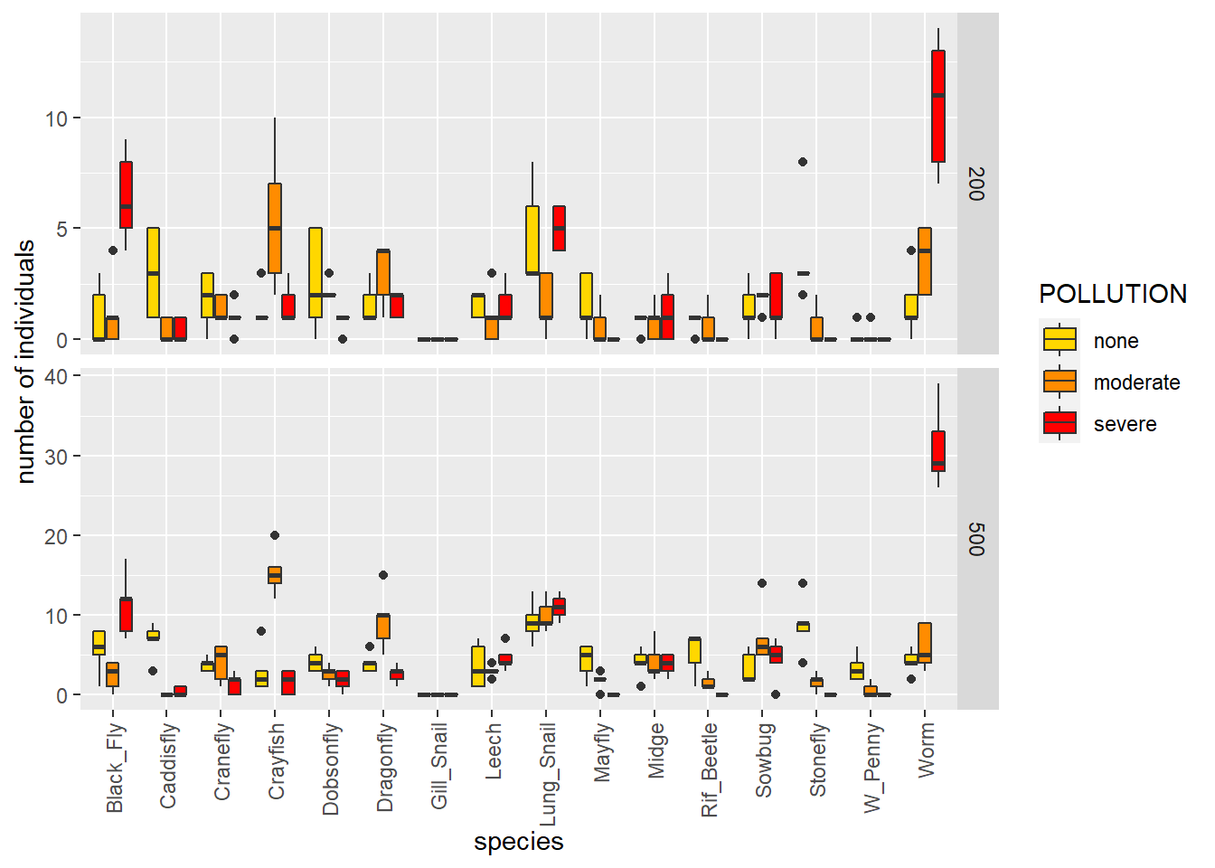
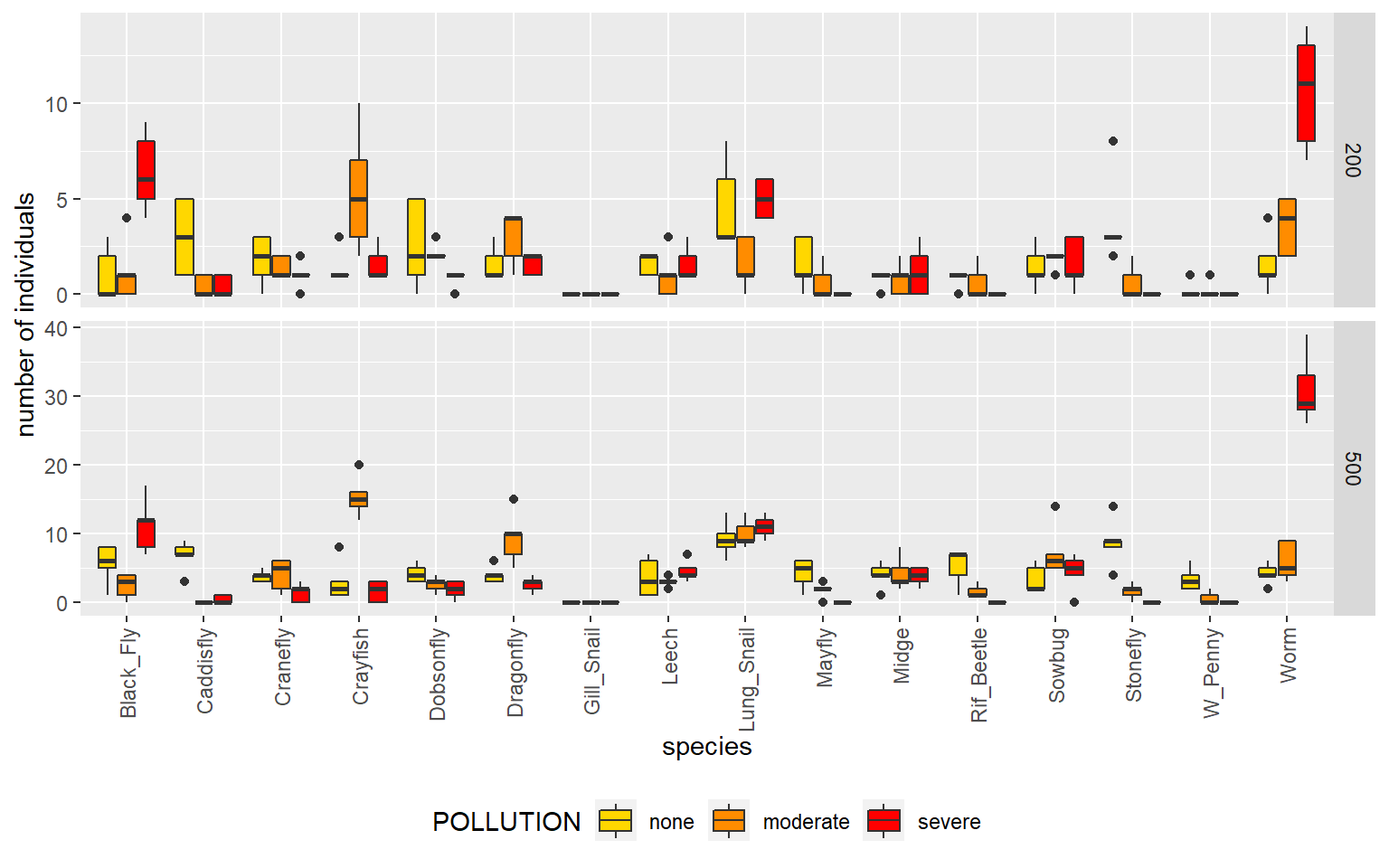
update biodindicators

diff --git a/_book/stream-diversity.html b/_book/stream-diversity.html
@@ -14,7 +14,7 @@
 
 <meta name="author" content="Shannon J. O’Leary" />
 
-<meta name="date" content="2020-09-21" />
+<meta name="date" content="2020-09-22" />
 
 
 <meta name="description" content="8 Stream Diversity | Lab Manual Conservation Biology Fall 2020">
@@ -167,9 +167,11 @@ if(f.classList.contains('fa-plus-square')) {
 </ul>
 <p><strong>Before we start</strong></p>
 <p>To be able to calculate various species diversity for each sample, we are going to need to install a new library for these calculations (you only need to do this once).</p>
-<div class="sourceCode" id="cb1"><pre class="sourceCode r"><code class="sourceCode r"><span id="cb1-1"><a href="stream-diversity.html#cb1-1"></a><span class="kw">install.packages</span>(<span class="st">"vegan"</span>)</span></code></pre></div>
+<div class="sourceCode" id="cb1"><pre class="sourceCode r"><code class="sourceCode r"><span id="cb1-1"><a href="stream-diversity.html#cb1-1"></a><span class="co"># install package</span></span>
+<span id="cb1-2"><a href="stream-diversity.html#cb1-2"></a><span class="kw">install.packages</span>(<span class="st">"vegan"</span>)</span></code></pre></div>
 <p>Now we can load that library<label for="tufte-sn-1" class="margin-toggle sidenote-number">1</label><input type="checkbox" id="tufte-sn-1" class="margin-toggle"><span class="sidenote"><span class="sidenote-number">1</span> Remember, if you restart <code>Rstudio</code>, reload the <code>Rproject</code>, or start a new <code>R session</code> in any other way you need to re-run the two code chunks above to make sure you libraries are loaded.</span>.</p>
-<div class="sourceCode" id="cb2"><pre class="sourceCode r"><code class="sourceCode r"><span id="cb2-1"><a href="stream-diversity.html#cb2-1"></a><span class="kw">library</span>(<span class="st">"vegan"</span>)</span></code></pre></div>
+<div class="sourceCode" id="cb2"><pre class="sourceCode r"><code class="sourceCode r"><span id="cb2-1"><a href="stream-diversity.html#cb2-1"></a><span class="co"># load library</span></span>
+<span id="cb2-2"><a href="stream-diversity.html#cb2-2"></a><span class="kw">library</span>(<span class="st">"vegan"</span>)</span></code></pre></div>
 <div id="stream-diversity-simulator" class="section level2">
 <h2>
 <span class="header-section-number">8.1</span> Stream Diversity Simulator</h2>
@@ -210,7 +212,8 @@ if(f.classList.contains('fa-plus-square')) {
 <h3>
 <span class="header-section-number">8.2.2</span> Analyze results</h3>
 <p>Let’s start by reading in our results.</p>
-<div class="sourceCode" id="cb3"><pre class="sourceCode r"><code class="sourceCode r"><span id="cb3-1"><a href="stream-diversity.html#cb3-1"></a>effort &lt;-<span class="st"> </span><span class="kw">read_delim</span>(<span class="st">"data/sampling_effort.txt"</span>, <span class="dt">delim =</span> <span class="st">"</span><span class="ch">\t</span><span class="st">"</span>)</span></code></pre></div>
+<div class="sourceCode" id="cb3"><pre class="sourceCode r"><code class="sourceCode r"><span id="cb3-1"><a href="stream-diversity.html#cb3-1"></a><span class="co"># read data</span></span>
+<span id="cb3-2"><a href="stream-diversity.html#cb3-2"></a>effort &lt;-<span class="st"> </span><span class="kw">read_delim</span>(<span class="st">"data/sampling_effort.txt"</span>, <span class="dt">delim =</span> <span class="st">"</span><span class="ch">\t</span><span class="st">"</span>)</span></code></pre></div>
 <div id="ques:one" class="question">
 <p class="question-begin">
 ► Question 8.1
@@ -271,10 +274,11 @@ Describe the expected relationship for of the number of species caught with incr
 </p>
 </div>
 </div>
-<div class="sourceCode" id="cb6"><pre class="sourceCode r"><code class="sourceCode r"><span id="cb6-1"><a href="stream-diversity.html#cb6-1"></a><span class="kw">ggplot</span>(effort, <span class="kw">aes</span>(<span class="dt">x =</span> TIME, <span class="dt">y =</span> N_SPECIES)) <span class="op">+</span></span>
-<span id="cb6-2"><a href="stream-diversity.html#cb6-2"></a><span class="st">  </span><span class="kw">stat_smooth</span>(<span class="dt">method =</span> <span class="st">"loess"</span>) <span class="op">+</span></span>
-<span id="cb6-3"><a href="stream-diversity.html#cb6-3"></a><span class="st">  </span><span class="kw">geom_point</span>(<span class="dt">shape =</span> <span class="dv">21</span>, <span class="dt">size =</span> <span class="dv">2</span>, <span class="dt">color =</span> <span class="st">"black"</span>, <span class="dt">fill =</span> <span class="st">"darkorange"</span>) <span class="op">+</span></span>
-<span id="cb6-4"><a href="stream-diversity.html#cb6-4"></a><span class="st">  </span><span class="kw">labs</span>(<span class="dt">x =</span> <span class="st">"sampling effort"</span>, <span class="dt">y =</span> <span class="st">"number of individuals"</span>)</span></code></pre></div>
+<div class="sourceCode" id="cb6"><pre class="sourceCode r"><code class="sourceCode r"><span id="cb6-1"><a href="stream-diversity.html#cb6-1"></a><span class="co"># plot data</span></span>
+<span id="cb6-2"><a href="stream-diversity.html#cb6-2"></a><span class="kw">ggplot</span>(effort, <span class="kw">aes</span>(<span class="dt">x =</span> TIME, <span class="dt">y =</span> N_SPECIES)) <span class="op">+</span></span>
+<span id="cb6-3"><a href="stream-diversity.html#cb6-3"></a><span class="st">  </span><span class="kw">stat_smooth</span>(<span class="dt">method =</span> <span class="st">"loess"</span>) <span class="op">+</span></span>
+<span id="cb6-4"><a href="stream-diversity.html#cb6-4"></a><span class="st">  </span><span class="kw">geom_point</span>(<span class="dt">shape =</span> <span class="dv">21</span>, <span class="dt">size =</span> <span class="dv">2</span>, <span class="dt">color =</span> <span class="st">"black"</span>, <span class="dt">fill =</span> <span class="st">"darkorange"</span>) <span class="op">+</span></span>
+<span id="cb6-5"><a href="stream-diversity.html#cb6-5"></a><span class="st">  </span><span class="kw">labs</span>(<span class="dt">x =</span> <span class="st">"sampling effort"</span>, <span class="dt">y =</span> <span class="st">"number of individuals"</span>)</span></code></pre></div>
 <div class="figure">
 <span id="fig:unnamed-chunk-6"></span>
 <p class="caption marginnote shownote">
@@ -356,7 +360,8 @@ Note<span id="sol-start-1" class="fa fa-plus-square solution-icon clickable" onc
 <span class="header-section-number">8.3.2</span> Data Analysis</h3>
 <p>Once all the data has been added to the google spreadsheet, cut and paste it into a excel spreadsheet and save it as a tab-delimited file (<code>pollut_comp.txt</code>) in your <code>data</code> sub-directory.</p>
 <p>Then we can read the data into <code>Rstudio</code> for analysis.</p>
-<div class="sourceCode" id="cb7"><pre class="sourceCode r"><code class="sourceCode r"><span id="cb7-1"><a href="stream-diversity.html#cb7-1"></a>comp &lt;-<span class="st"> </span><span class="kw">read_delim</span>(<span class="st">"data/pollut_comp.txt"</span>, <span class="dt">delim =</span> <span class="st">"</span><span class="ch">\t</span><span class="st">"</span>)</span></code></pre></div>
+<div class="sourceCode" id="cb7"><pre class="sourceCode r"><code class="sourceCode r"><span id="cb7-1"><a href="stream-diversity.html#cb7-1"></a><span class="co"># read data</span></span>
+<span id="cb7-2"><a href="stream-diversity.html#cb7-2"></a>comp &lt;-<span class="st"> </span><span class="kw">read_delim</span>(<span class="st">"data/pollut_comp.txt"</span>, <span class="dt">delim =</span> <span class="st">"</span><span class="ch">\t</span><span class="st">"</span>)</span></code></pre></div>
 <p>The data set is in a wide format, i.e. the observed number of individuals per species are each in their own column.</p>
 <p>For efficient analysis and visualization in using functions you have become familiar with over the last few weeks in the <code>tidyverse</code> and <code>ggplot</code> packages we need to convert it to a <code>tidy</code> data set where each row is an observation.</p>
 <p>Do you remember what function we use to do that? What would that code look like?</p>
@@ -366,13 +371,16 @@ Solution<span id="sol-start-2" class="fa fa-plus-square solution-icon clickable"
 </p>
 <div id="sol-body-2" class="solution-body" style="display: none;">
 <p>That’s correct <code>pivot_longer()</code> is the function we’re looking for!</p>
-<div class="sourceCode" id="cb8"><pre class="sourceCode r"><code class="sourceCode r"><span id="cb8-1"><a href="stream-diversity.html#cb8-1"></a>pollution &lt;-<span class="st"> </span><span class="kw">c</span>(<span class="st">"none"</span>, <span class="st">"moderate"</span>, <span class="st">"severe"</span>)</span>
-<span id="cb8-2"><a href="stream-diversity.html#cb8-2"></a></span>
-<span id="cb8-3"><a href="stream-diversity.html#cb8-3"></a>tidy &lt;-<span class="st"> </span>comp <span class="op">%&gt;%</span></span>
-<span id="cb8-4"><a href="stream-diversity.html#cb8-4"></a><span class="st">  </span><span class="kw">pivot_longer</span>(<span class="dt">cols =</span> <span class="dv">4</span><span class="op">:</span><span class="dv">19</span>, <span class="dt">names_to =</span> <span class="st">"SPECIES"</span>, <span class="dt">values_to =</span> <span class="st">"N_INDV"</span>) <span class="op">%&gt;%</span></span>
-<span id="cb8-5"><a href="stream-diversity.html#cb8-5"></a><span class="st">  </span><span class="kw">mutate</span>(<span class="dt">POLLUTION =</span> <span class="kw">ordered</span>(POLLUTION, <span class="dt">levels =</span> pollution))</span></code></pre></div>
+<div class="sourceCode" id="cb8"><pre class="sourceCode r"><code class="sourceCode r"><span id="cb8-1"><a href="stream-diversity.html#cb8-1"></a><span class="co"># set pollution levels</span></span>
+<span id="cb8-2"><a href="stream-diversity.html#cb8-2"></a>pollution &lt;-<span class="st"> </span><span class="kw">c</span>(<span class="st">"none"</span>, <span class="st">"moderate"</span>, <span class="st">"severe"</span>)</span>
+<span id="cb8-3"><a href="stream-diversity.html#cb8-3"></a></span>
+<span id="cb8-4"><a href="stream-diversity.html#cb8-4"></a><span class="co"># format data</span></span>
+<span id="cb8-5"><a href="stream-diversity.html#cb8-5"></a>tidy &lt;-<span class="st"> </span>comp <span class="op">%&gt;%</span></span>
+<span id="cb8-6"><a href="stream-diversity.html#cb8-6"></a><span class="st">  </span><span class="kw">pivot_longer</span>(<span class="dt">cols =</span> <span class="dv">4</span><span class="op">:</span><span class="dv">19</span>, <span class="dt">names_to =</span> <span class="st">"SPECIES"</span>, <span class="dt">values_to =</span> <span class="st">"N_INDV"</span>) <span class="op">%&gt;%</span></span>
+<span id="cb8-7"><a href="stream-diversity.html#cb8-7"></a><span class="st">  </span><span class="kw">mutate</span>(<span class="dt">POLLUTION =</span> <span class="kw">ordered</span>(POLLUTION, <span class="dt">levels =</span> pollution))</span></code></pre></div>
 <p>Let’s take a look at the first few lines of the data frame to make sure it worked.</p>
-<div class="sourceCode" id="cb9"><pre class="sourceCode r"><code class="sourceCode r"><span id="cb9-1"><a href="stream-diversity.html#cb9-1"></a><span class="kw">head</span>(tidy)</span></code></pre></div>
+<div class="sourceCode" id="cb9"><pre class="sourceCode r"><code class="sourceCode r"><span id="cb9-1"><a href="stream-diversity.html#cb9-1"></a><span class="co"># test if tidy</span></span>
+<span id="cb9-2"><a href="stream-diversity.html#cb9-2"></a><span class="kw">head</span>(tidy)</span></code></pre></div>
 <pre><code>## # A tibble: 6 x 5
 ##   POLLUTION  TIME SAMPLE SPECIES    N_INDV
 ##   &lt;ord&gt;     &lt;dbl&gt;  &lt;dbl&gt; &lt;chr&gt;       &lt;dbl&gt;
@@ -428,10 +436,11 @@ Hint<span id="sol-start-3" class="fa fa-plus-square solution-icon clickable" onc
 </p>
 <div id="sol-body-4" class="solution-body" style="display: none;">
 <p>That’s right, once again we can combine <code>group_by()</code> to group our observations by pollution level (<code>POLLUTION</code>), sample (<code>SAMPLE</code>), and sampling effort (<code>TIME</code>) and then use <code>summarize()</code> to add up all the values in the <code>N_INDV</code> column to get the total catch using <code>sum()</code>.</p>
-<div class="sourceCode" id="cb11"><pre class="sourceCode r"><code class="sourceCode r"><span id="cb11-1"><a href="stream-diversity.html#cb11-1"></a>total &lt;-<span class="st"> </span>tidy <span class="op">%&gt;%</span></span>
-<span id="cb11-2"><a href="stream-diversity.html#cb11-2"></a><span class="st">  </span><span class="kw">group_by</span>(POLLUTION, TIME, SAMPLE) <span class="op">%&gt;%</span></span>
-<span id="cb11-3"><a href="stream-diversity.html#cb11-3"></a><span class="st">  </span><span class="kw">summarize</span>(<span class="dt">N_TOTAL =</span> <span class="kw">sum</span>(N_INDV)) <span class="op">%&gt;%</span></span>
-<span id="cb11-4"><a href="stream-diversity.html#cb11-4"></a><span class="st">  </span><span class="kw">ungroup</span>()</span></code></pre></div>
+<div class="sourceCode" id="cb11"><pre class="sourceCode r"><code class="sourceCode r"><span id="cb11-1"><a href="stream-diversity.html#cb11-1"></a><span class="co"># format data</span></span>
+<span id="cb11-2"><a href="stream-diversity.html#cb11-2"></a>total &lt;-<span class="st"> </span>tidy <span class="op">%&gt;%</span></span>
+<span id="cb11-3"><a href="stream-diversity.html#cb11-3"></a><span class="st">  </span><span class="kw">group_by</span>(POLLUTION, TIME, SAMPLE) <span class="op">%&gt;%</span></span>
+<span id="cb11-4"><a href="stream-diversity.html#cb11-4"></a><span class="st">  </span><span class="kw">summarize</span>(<span class="dt">N_TOTAL =</span> <span class="kw">sum</span>(N_INDV)) <span class="op">%&gt;%</span></span>
+<span id="cb11-5"><a href="stream-diversity.html#cb11-5"></a><span class="st">  </span><span class="kw">ungroup</span>()</span></code></pre></div>
 <p class="solution-end">
 <span class="fa fa-square-o solution-icon"></span>
 </p>
@@ -439,10 +448,11 @@ Hint<span id="sol-start-3" class="fa fa-plus-square solution-icon clickable" onc
 </div>
 <p>We have multiple measurements for each sample, so we are interested in comparing the distribution of values.</p>
 <p>One way to visualize distributions is box plots (also known as box and whiskers plots).</p>
-<div class="sourceCode" id="cb12"><pre class="sourceCode r"><code class="sourceCode r"><span id="cb12-1"><a href="stream-diversity.html#cb12-1"></a><span class="kw">ggplot</span>(total, <span class="kw">aes</span>(<span class="dt">x =</span> POLLUTION, <span class="dt">y =</span> N_TOTAL)) <span class="op">+</span></span>
-<span id="cb12-2"><a href="stream-diversity.html#cb12-2"></a><span class="st">  </span><span class="kw">geom_boxplot</span>(<span class="dt">fill =</span> <span class="st">"darkorange"</span>) <span class="op">+</span></span>
-<span id="cb12-3"><a href="stream-diversity.html#cb12-3"></a><span class="st">  </span><span class="kw">facet_grid</span>(. <span class="op">~</span><span class="st"> </span>TIME) <span class="op">+</span></span>
-<span id="cb12-4"><a href="stream-diversity.html#cb12-4"></a><span class="st">  </span><span class="kw">labs</span>(<span class="dt">x =</span> <span class="st">"pollution level"</span>, <span class="dt">y =</span> <span class="st">"total catch"</span>)</span></code></pre></div>
+<div class="sourceCode" id="cb12"><pre class="sourceCode r"><code class="sourceCode r"><span id="cb12-1"><a href="stream-diversity.html#cb12-1"></a><span class="co"># plot boxplots</span></span>
+<span id="cb12-2"><a href="stream-diversity.html#cb12-2"></a><span class="kw">ggplot</span>(total, <span class="kw">aes</span>(<span class="dt">x =</span> POLLUTION, <span class="dt">y =</span> N_TOTAL)) <span class="op">+</span></span>
+<span id="cb12-3"><a href="stream-diversity.html#cb12-3"></a><span class="st">  </span><span class="kw">geom_boxplot</span>(<span class="dt">fill =</span> <span class="st">"darkorange"</span>) <span class="op">+</span></span>
+<span id="cb12-4"><a href="stream-diversity.html#cb12-4"></a><span class="st">  </span><span class="kw">facet_grid</span>(. <span class="op">~</span><span class="st"> </span>TIME) <span class="op">+</span></span>
+<span id="cb12-5"><a href="stream-diversity.html#cb12-5"></a><span class="st">  </span><span class="kw">labs</span>(<span class="dt">x =</span> <span class="st">"pollution level"</span>, <span class="dt">y =</span> <span class="st">"total catch"</span>)</span></code></pre></div>
 <div class="figure">
 <span id="fig:unnamed-chunk-11"></span>
 <p class="caption marginnote shownote">
@@ -477,22 +487,26 @@ Discuss your results. Remember, discuss means that you should both briefly descr
 <p>The most straightforward way to calculate species richness is to just determine the number of species occurring in a sample. This can be done using <code>vegan::specnumber()</code>.</p>
 <p>One thing we have not yet considered is that we standardized our sampling effort by seining for the same amount of time to make sure that we catch all species present in the stream. But from our comparison above, we know that this has resulted in very different numbers of individuals caught. One way to adjust for differences in sample size is called rarefaction which means that for every sample a set number of individuals are drawn and then the number of species is counted, i.e. larger samples are randomly sub-sampled to the same level as smaller samples. As a result every sample is the same size and comparable. We can do this using the function <code>vegan::rarefy()</code>.</p>
 <p>Frequently the smallest sample size is used - we can determine this number from the data frame we just generated.</p>
-<div class="sourceCode" id="cb13"><pre class="sourceCode r"><code class="sourceCode r"><span id="cb13-1"><a href="stream-diversity.html#cb13-1"></a>min_size &lt;-<span class="st"> </span><span class="kw">min</span>(total<span class="op">$</span>N_TOTAL)</span></code></pre></div>
+<div class="sourceCode" id="cb13"><pre class="sourceCode r"><code class="sourceCode r"><span id="cb13-1"><a href="stream-diversity.html#cb13-1"></a><span class="co"># determine smallest sample size</span></span>
+<span id="cb13-2"><a href="stream-diversity.html#cb13-2"></a>min_size &lt;-<span class="st"> </span><span class="kw">min</span>(total<span class="op">$</span>N_TOTAL)</span></code></pre></div>
 <p>Now, we can calculate species richness using rarefaction and without to determine differences between these measures.</p>
-<div class="sourceCode" id="cb14"><pre class="sourceCode r"><code class="sourceCode r"><span id="cb14-1"><a href="stream-diversity.html#cb14-1"></a>richn &lt;-<span class="st"> </span>tidy <span class="op">%&gt;%</span></span>
-<span id="cb14-2"><a href="stream-diversity.html#cb14-2"></a><span class="st">  </span><span class="kw">group_by</span>(POLLUTION, TIME, SAMPLE) <span class="op">%&gt;%</span></span>
-<span id="cb14-3"><a href="stream-diversity.html#cb14-3"></a><span class="st">  </span><span class="kw">summarize</span>(<span class="dt">RICHN =</span> <span class="kw">specnumber</span>(N_INDV),</span>
-<span id="cb14-4"><a href="stream-diversity.html#cb14-4"></a>            <span class="dt">RAREFY =</span> <span class="kw">rarefy</span>(N_INDV, min_size)) <span class="op">%&gt;%</span></span>
-<span id="cb14-5"><a href="stream-diversity.html#cb14-5"></a><span class="st">  </span><span class="kw">ungroup</span>()</span></code></pre></div>
+<div class="sourceCode" id="cb14"><pre class="sourceCode r"><code class="sourceCode r"><span id="cb14-1"><a href="stream-diversity.html#cb14-1"></a><span class="co"># calculate richness</span></span>
+<span id="cb14-2"><a href="stream-diversity.html#cb14-2"></a>richn &lt;-<span class="st"> </span>tidy <span class="op">%&gt;%</span></span>
+<span id="cb14-3"><a href="stream-diversity.html#cb14-3"></a><span class="st">  </span><span class="kw">group_by</span>(POLLUTION, TIME, SAMPLE) <span class="op">%&gt;%</span></span>
+<span id="cb14-4"><a href="stream-diversity.html#cb14-4"></a><span class="st">  </span><span class="kw">summarize</span>(<span class="dt">RICHN =</span> <span class="kw">specnumber</span>(N_INDV),</span>
+<span id="cb14-5"><a href="stream-diversity.html#cb14-5"></a>            <span class="dt">RAREFY =</span> <span class="kw">rarefy</span>(N_INDV, min_size)) <span class="op">%&gt;%</span></span>
+<span id="cb14-6"><a href="stream-diversity.html#cb14-6"></a><span class="st">  </span><span class="kw">ungroup</span>()</span></code></pre></div>
 <p>Let’s visualize our results to determine differences among pollution levels and related to sampling effort.</p>
 <p>Instead of creating individuals plots, we are going to convert our data into a <code>tidy</code> data set. That way we can use <code>facet_grid()</code> to plot <code>TIME</code> in the columns as we have been doing previously but in addition we can plot <code>RICHNESS</code> in rows.</p>
-<div class="sourceCode" id="cb15"><pre class="sourceCode r"><code class="sourceCode r"><span id="cb15-1"><a href="stream-diversity.html#cb15-1"></a>richn &lt;-<span class="st"> </span>richn <span class="op">%&gt;%</span></span>
-<span id="cb15-2"><a href="stream-diversity.html#cb15-2"></a><span class="st">  </span><span class="kw">pivot_longer</span>(<span class="dv">4</span><span class="op">:</span><span class="dv">5</span>, <span class="dt">names_to =</span> <span class="st">"RICHNESS"</span>, <span class="dt">values_to =</span> <span class="st">"VALUES"</span>)</span>
-<span id="cb15-3"><a href="stream-diversity.html#cb15-3"></a></span>
-<span id="cb15-4"><a href="stream-diversity.html#cb15-4"></a><span class="kw">ggplot</span>(richn, <span class="kw">aes</span>(<span class="dt">x =</span> POLLUTION, <span class="dt">y =</span> VALUES)) <span class="op">+</span></span>
-<span id="cb15-5"><a href="stream-diversity.html#cb15-5"></a><span class="st">  </span><span class="kw">geom_boxplot</span>(<span class="dt">fill =</span> <span class="st">"darkorange"</span>) <span class="op">+</span></span>
-<span id="cb15-6"><a href="stream-diversity.html#cb15-6"></a><span class="st">  </span><span class="kw">facet_grid</span>(RICHNESS <span class="op">~</span><span class="st"> </span>TIME) <span class="op">+</span></span>
-<span id="cb15-7"><a href="stream-diversity.html#cb15-7"></a><span class="st">  </span><span class="kw">labs</span>(<span class="dt">x =</span> <span class="st">"pollution level"</span>, <span class="dt">y =</span> <span class="st">"species richness"</span>)</span></code></pre></div>
+<div class="sourceCode" id="cb15"><pre class="sourceCode r"><code class="sourceCode r"><span id="cb15-1"><a href="stream-diversity.html#cb15-1"></a><span class="co"># format data</span></span>
+<span id="cb15-2"><a href="stream-diversity.html#cb15-2"></a>richn &lt;-<span class="st"> </span>richn <span class="op">%&gt;%</span></span>
+<span id="cb15-3"><a href="stream-diversity.html#cb15-3"></a><span class="st">  </span><span class="kw">pivot_longer</span>(<span class="dv">4</span><span class="op">:</span><span class="dv">5</span>, <span class="dt">names_to =</span> <span class="st">"RICHNESS"</span>, <span class="dt">values_to =</span> <span class="st">"VALUES"</span>)</span>
+<span id="cb15-4"><a href="stream-diversity.html#cb15-4"></a></span>
+<span id="cb15-5"><a href="stream-diversity.html#cb15-5"></a><span class="co"># plot data</span></span>
+<span id="cb15-6"><a href="stream-diversity.html#cb15-6"></a><span class="kw">ggplot</span>(richn, <span class="kw">aes</span>(<span class="dt">x =</span> POLLUTION, <span class="dt">y =</span> VALUES)) <span class="op">+</span></span>
+<span id="cb15-7"><a href="stream-diversity.html#cb15-7"></a><span class="st">  </span><span class="kw">geom_boxplot</span>(<span class="dt">fill =</span> <span class="st">"darkorange"</span>) <span class="op">+</span></span>
+<span id="cb15-8"><a href="stream-diversity.html#cb15-8"></a><span class="st">  </span><span class="kw">facet_grid</span>(RICHNESS <span class="op">~</span><span class="st"> </span>TIME) <span class="op">+</span></span>
+<span id="cb15-9"><a href="stream-diversity.html#cb15-9"></a><span class="st">  </span><span class="kw">labs</span>(<span class="dt">x =</span> <span class="st">"pollution level"</span>, <span class="dt">y =</span> <span class="st">"species richness"</span>)</span></code></pre></div>
 <div class="figure">
 <span id="fig:unnamed-chunk-14"></span>
 <p class="caption marginnote shownote">
@@ -513,7 +527,7 @@ Discuss your results.
 </p>
 </div>
 </div>
-<p>Of course, species richness is problematic for other reasons than sample size so let’s take a look at <strong>species diversity</strong> as well.</p>
+<p>Of course, species richness is problematic for reasons other than sample size so let’s take a look at <strong>species diversity</strong> as well.</p>
 <div id="ques:nine" class="question">
 <p class="question-begin">
 ► Question 8.9
@@ -536,26 +550,29 @@ Explain the difference between how species richness and species diversity are ca
 <li>
 <strong>Inverse Simpson</strong>: an easy way to interpret this is to interpret this number as the number of species in an idealized community where all species are equally abundant.</li>
 </ol>
-<div class="sourceCode" id="cb16"><pre class="sourceCode r"><code class="sourceCode r"><span id="cb16-1"><a href="stream-diversity.html#cb16-1"></a>diversity &lt;-<span class="st"> </span>tidy <span class="op">%&gt;%</span></span>
-<span id="cb16-2"><a href="stream-diversity.html#cb16-2"></a><span class="st">  </span><span class="kw">group_by</span>(POLLUTION, TIME, SAMPLE) <span class="op">%&gt;%</span></span>
-<span id="cb16-3"><a href="stream-diversity.html#cb16-3"></a><span class="st">  </span><span class="kw">summarize</span>(<span class="dt">SHANNON =</span> <span class="kw">diversity</span>(N_INDV, <span class="dt">index =</span> <span class="st">"shannon"</span>),</span>
-<span id="cb16-4"><a href="stream-diversity.html#cb16-4"></a>            <span class="dt">SIMPSON =</span> <span class="kw">diversity</span>(N_INDV, <span class="dt">index =</span> <span class="st">"simpson"</span>),</span>
-<span id="cb16-5"><a href="stream-diversity.html#cb16-5"></a>            <span class="dt">INVSIMPSON =</span> <span class="kw">diversity</span>(N_INDV, <span class="dt">index =</span> <span class="st">"invsimpson"</span>))</span></code></pre></div>
+<div class="sourceCode" id="cb16"><pre class="sourceCode r"><code class="sourceCode r"><span id="cb16-1"><a href="stream-diversity.html#cb16-1"></a><span class="co"># calculate diversity stats</span></span>
+<span id="cb16-2"><a href="stream-diversity.html#cb16-2"></a>diversity &lt;-<span class="st"> </span>tidy <span class="op">%&gt;%</span></span>
+<span id="cb16-3"><a href="stream-diversity.html#cb16-3"></a><span class="st">  </span><span class="kw">group_by</span>(POLLUTION, TIME, SAMPLE) <span class="op">%&gt;%</span></span>
+<span id="cb16-4"><a href="stream-diversity.html#cb16-4"></a><span class="st">  </span><span class="kw">summarize</span>(<span class="dt">SHANNON =</span> <span class="kw">diversity</span>(N_INDV, <span class="dt">index =</span> <span class="st">"shannon"</span>),</span>
+<span id="cb16-5"><a href="stream-diversity.html#cb16-5"></a>            <span class="dt">SIMPSON =</span> <span class="kw">diversity</span>(N_INDV, <span class="dt">index =</span> <span class="st">"simpson"</span>),</span>
+<span id="cb16-6"><a href="stream-diversity.html#cb16-6"></a>            <span class="dt">INVSIMPSON =</span> <span class="kw">diversity</span>(N_INDV, <span class="dt">index =</span> <span class="st">"invsimpson"</span>))</span></code></pre></div>
 <p>Now we can compare our data.</p>
 <p>Similar to the way we modified the richness data set, we are going to convert our data into a <code>tidy</code> data set, so we can use <code>facet_grid()</code> to plot <code>TIME</code> in the columns as we have been doing previously but in addition we can plot <code>DIVERSITY</code> in rows.</p>
-<div class="sourceCode" id="cb17"><pre class="sourceCode r"><code class="sourceCode r"><span id="cb17-1"><a href="stream-diversity.html#cb17-1"></a>diversity &lt;-<span class="st"> </span>diversity <span class="op">%&gt;%</span></span>
-<span id="cb17-2"><a href="stream-diversity.html#cb17-2"></a><span class="st">  </span><span class="kw">pivot_longer</span>(<span class="dt">cols =</span> <span class="dv">4</span><span class="op">:</span><span class="dv">6</span>, <span class="dt">names_to =</span> <span class="st">"DIVERSITY"</span>, <span class="dt">values_to =</span> <span class="st">"VALUE"</span>)</span>
-<span id="cb17-3"><a href="stream-diversity.html#cb17-3"></a></span>
-<span id="cb17-4"><a href="stream-diversity.html#cb17-4"></a><span class="kw">ggplot</span>(diversity, <span class="kw">aes</span>(<span class="dt">x =</span> POLLUTION, <span class="dt">y =</span> VALUE)) <span class="op">+</span></span>
-<span id="cb17-5"><a href="stream-diversity.html#cb17-5"></a><span class="st">  </span><span class="kw">geom_boxplot</span>(<span class="dt">fill =</span> <span class="st">"darkorange"</span>) <span class="op">+</span></span>
-<span id="cb17-6"><a href="stream-diversity.html#cb17-6"></a><span class="st">  </span><span class="kw">facet_grid</span>(DIVERSITY <span class="op">~</span><span class="st"> </span>TIME, <span class="dt">scales =</span> <span class="st">"free"</span>) <span class="op">+</span></span>
-<span id="cb17-7"><a href="stream-diversity.html#cb17-7"></a><span class="st">  </span><span class="kw">labs</span>(<span class="dt">x =</span> <span class="st">"pollution level"</span>, <span class="dt">y =</span> <span class="st">"diversity"</span>)</span></code></pre></div>
+<div class="sourceCode" id="cb17"><pre class="sourceCode r"><code class="sourceCode r"><span id="cb17-1"><a href="stream-diversity.html#cb17-1"></a><span class="co"># format data for plotting</span></span>
+<span id="cb17-2"><a href="stream-diversity.html#cb17-2"></a>diversity &lt;-<span class="st"> </span>diversity <span class="op">%&gt;%</span></span>
+<span id="cb17-3"><a href="stream-diversity.html#cb17-3"></a><span class="st">  </span><span class="kw">pivot_longer</span>(<span class="dt">cols =</span> <span class="dv">4</span><span class="op">:</span><span class="dv">6</span>, <span class="dt">names_to =</span> <span class="st">"DIVERSITY"</span>, <span class="dt">values_to =</span> <span class="st">"VALUE"</span>)</span>
+<span id="cb17-4"><a href="stream-diversity.html#cb17-4"></a></span>
+<span id="cb17-5"><a href="stream-diversity.html#cb17-5"></a><span class="co"># plot data</span></span>
+<span id="cb17-6"><a href="stream-diversity.html#cb17-6"></a><span class="kw">ggplot</span>(diversity, <span class="kw">aes</span>(<span class="dt">x =</span> POLLUTION, <span class="dt">y =</span> VALUE)) <span class="op">+</span></span>
+<span id="cb17-7"><a href="stream-diversity.html#cb17-7"></a><span class="st">  </span><span class="kw">geom_boxplot</span>(<span class="dt">fill =</span> <span class="st">"darkorange"</span>) <span class="op">+</span></span>
+<span id="cb17-8"><a href="stream-diversity.html#cb17-8"></a><span class="st">  </span><span class="kw">facet_grid</span>(DIVERSITY <span class="op">~</span><span class="st"> </span>TIME, <span class="dt">scales =</span> <span class="st">"free"</span>) <span class="op">+</span></span>
+<span id="cb17-9"><a href="stream-diversity.html#cb17-9"></a><span class="st">  </span><span class="kw">labs</span>(<span class="dt">x =</span> <span class="st">"pollution level"</span>, <span class="dt">y =</span> <span class="st">"diversity"</span>)</span></code></pre></div>
 <div class="figure">
 <span id="fig:unnamed-chunk-16"></span>
 <p class="caption marginnote shownote">
 Figure 8.5: Comparison of species diversity using three different measures for different levels of pollution and sampling time.
 </p>
-<img src="_main_files/figure-html/unnamed-chunk-16-1.png" alt="Comparison of species diversity using three different measures for different levels of pollution and sampling time." width="672">
+<img src="_main_files/figure-html/unnamed-chunk-16-1.png" alt="Comparison of species diversity using three different measures for different levels of pollution and sampling time." width="768">
 </div>
 <div id="ques:ten" class="question">
 <p class="question-begin">
@@ -585,13 +602,21 @@ Briefly consider how you would expect your figure to differ for each of those tw
 </div>
 </div>
 <p>Let’s visualize our results.</p>
-<div class="sourceCode" id="cb18"><pre class="sourceCode r"><code class="sourceCode r"><span id="cb18-1"><a href="stream-diversity.html#cb18-1"></a><span class="kw">ggplot</span>(tidy, <span class="kw">aes</span>(<span class="dt">x =</span> SPECIES, <span class="dt">y =</span> N_INDV, <span class="dt">fill =</span> POLLUTION)) <span class="op">+</span></span>
-<span id="cb18-2"><a href="stream-diversity.html#cb18-2"></a><span class="st">  </span><span class="kw">geom_boxplot</span>() <span class="op">+</span></span>
-<span id="cb18-3"><a href="stream-diversity.html#cb18-3"></a><span class="st">  </span><span class="kw">facet_grid</span>(TIME <span class="op">~</span><span class="st"> </span>., <span class="dt">scales =</span> <span class="st">"free"</span>) <span class="op">+</span></span>
-<span id="cb18-4"><a href="stream-diversity.html#cb18-4"></a><span class="st">  </span><span class="kw">scale_fill_manual</span>(<span class="dt">values =</span> <span class="kw">c</span>(<span class="st">"gold"</span>, <span class="st">"darkorange"</span>, <span class="st">"red"</span>)) <span class="op">+</span></span>
-<span id="cb18-5"><a href="stream-diversity.html#cb18-5"></a><span class="st">  </span><span class="kw">labs</span>(<span class="dt">x =</span> <span class="st">"species"</span>, <span class="dt">y =</span> <span class="st">"number of individuals"</span>) <span class="op">+</span></span>
-<span id="cb18-6"><a href="stream-diversity.html#cb18-6"></a><span class="st">  </span><span class="kw">theme</span>(<span class="dt">axis.text.x =</span> <span class="kw">element_text</span>(<span class="dt">angle =</span> <span class="dv">90</span>, <span class="dt">vjust =</span> <span class="fl">0.5</span>, <span class="dt">hjust=</span><span class="dv">1</span>))</span></code></pre></div>
-<p><img src="_main_files/figure-html/unnamed-chunk-17-1.png" width="672"></p>
+<div class="sourceCode" id="cb18"><pre class="sourceCode r"><code class="sourceCode r"><span id="cb18-1"><a href="stream-diversity.html#cb18-1"></a><span class="co"># plot number of individuals per species</span></span>
+<span id="cb18-2"><a href="stream-diversity.html#cb18-2"></a><span class="kw">ggplot</span>(tidy, <span class="kw">aes</span>(<span class="dt">x =</span> SPECIES, <span class="dt">y =</span> N_INDV, <span class="dt">fill =</span> POLLUTION)) <span class="op">+</span></span>
+<span id="cb18-3"><a href="stream-diversity.html#cb18-3"></a><span class="st">  </span><span class="kw">geom_boxplot</span>() <span class="op">+</span></span>
+<span id="cb18-4"><a href="stream-diversity.html#cb18-4"></a><span class="st">  </span><span class="kw">facet_grid</span>(TIME <span class="op">~</span><span class="st"> </span>., <span class="dt">scales =</span> <span class="st">"free"</span>) <span class="op">+</span></span>
+<span id="cb18-5"><a href="stream-diversity.html#cb18-5"></a><span class="st">  </span><span class="kw">scale_fill_manual</span>(<span class="dt">values =</span> <span class="kw">c</span>(<span class="st">"gold"</span>, <span class="st">"darkorange"</span>, <span class="st">"red"</span>)) <span class="op">+</span></span>
+<span id="cb18-6"><a href="stream-diversity.html#cb18-6"></a><span class="st">  </span><span class="kw">labs</span>(<span class="dt">x =</span> <span class="st">"species"</span>, <span class="dt">y =</span> <span class="st">"number of individuals"</span>) <span class="op">+</span></span>
+<span id="cb18-7"><a href="stream-diversity.html#cb18-7"></a><span class="st">  </span><span class="kw">theme</span>(<span class="dt">axis.text.x =</span> <span class="kw">element_text</span>(<span class="dt">angle =</span> <span class="dv">90</span>, <span class="dt">vjust =</span> <span class="fl">0.5</span>, <span class="dt">hjust=</span><span class="dv">1</span>),</span>
+<span id="cb18-8"><a href="stream-diversity.html#cb18-8"></a>        <span class="dt">legend.position =</span> <span class="st">"bottom"</span>)</span></code></pre></div>
+<div class="figure">
+<span id="fig:unnamed-chunk-17"></span>
+<p class="caption marginnote shownote">
+Figure 8.6: Number of individuals per species at varying degrees of pollution.
+</p>
+<img src="_main_files/figure-html/unnamed-chunk-17-1.png" alt="Number of individuals per species at varying degrees of pollution." width="768">
+</div>
 <div id="ques:twelve" class="question">
 <p class="question-begin">
 ► Question 8.12
@@ -616,7 +641,7 @@ Discuss your results and argue whether differences you are seeing are the result
 </p>
 <div class="question-body">
 <p>
-In our discussion of the strategic value of species diversity, we briefly touched on the concept of indicator species. Briefly outline what an indicator species is and how it differs from a flagship and umbrella species, two groups that also carry significant stratgic value for conservation efforts. Use specific examples as needed and consider whether a species could fall into all three categories.
+In our discussion of the strategic value of species diversity, we briefly touched on the concept of indicator species. Briefly outline what an indicator species is and how it differs from a flagship and an umbrella species, two groups that also carry significant stratgic value for conservation efforts. Use specific examples as needed and consider whether a species could fall into all three categories.
 </p>
 <p class="question-end">
 <span class="fa fa-square-o solution-icon"></span>
@@ -644,7 +669,7 @@ Based on these characteristics, argue whether you think aquatic invertebrates co
 </p>
 </div>
 </div>
-<p><strong>Bioindicators</strong> are a subset of ecological indicators. Here, species assemblage and population abundance is used to measure ecosystem health and habitat quality. Frequently, they are used as a proxy for environmental contamination and pollution. Aquatic invertebrates are frequently used as bioindicators to assess the level of pollution of streams or other freshwater habitats due to their varying degree of sensitivity to a polluted environment<label for="tufte-sn-4" class="margin-toggle sidenote-number">4</label><input type="checkbox" id="tufte-sn-4" class="margin-toggle"><span class="sidenote"><span class="sidenote-number">4</span> yes, this essentially is the answer to the question above, but you should be arguing <em>your</em> answer based on the four characteristics of ecological indicators.</span>.</p>
+<p><strong>Bioindicators</strong> are a subset of ecological indicators. Here, species assemblage and population abundance are used to measure ecosystem health and habitat quality. Frequently, they are used as a proxy for environmental contamination and pollution. Aquatic invertebrates are frequently used as bioindicators to assess the level of pollution of streams or other freshwater habitats due to their varying degree of sensitivity to a polluted environment<label for="tufte-sn-4" class="margin-toggle sidenote-number">4</label><input type="checkbox" id="tufte-sn-4" class="margin-toggle"><span class="sidenote"><span class="sidenote-number">4</span> yes, this essentially is the answer to the question above, but you should be arguing <em>your</em> answer based on the four characteristics of ecological indicators.</span>.</p>
 <div id="ques:fifteen" class="question">
 <p class="question-begin">
 ► Question 8.15
@@ -681,7 +706,7 @@ Some additional help<span id="sol-start-5" class="fa fa-plus-square solution-ico
 <div class="figure">
 <span id="fig:unnamed-chunk-18"></span>
 <p class="caption marginnote shownote">
-Figure 8.6: Number of individuals per species for varying degrees of pollution for aquatic invertebrates sensitive, less sensitive and tolerant to pollution.
+Figure 8.7: Number of individuals per species for varying degrees of pollution for aquatic invertebrates sensitive, less sensitive and tolerant to pollution.
 </p>
 <img src="_main_files/figure-html/unnamed-chunk-18-1.png" alt="Number of individuals per species for varying degrees of pollution for aquatic invertebrates sensitive, less sensitive and tolerant to pollution." width="768">
 </div>
@@ -699,7 +724,7 @@ Figure 8.6: Number of individuals per species for varying degrees of pollution f
 <a href="references.html"><button class="btn btn-default">Next</button></a>
 </p>
 <p class="build-date">Page built: 
-2020-09-21
+2020-09-22
 </p>
 </div>
 </div>
